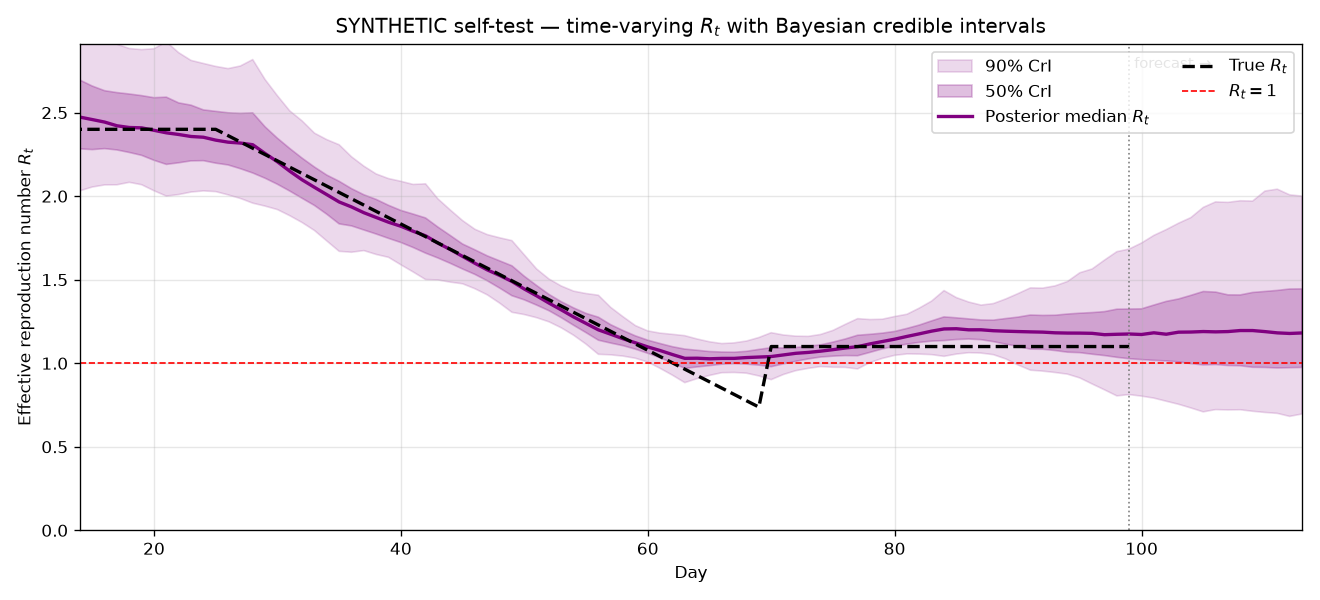
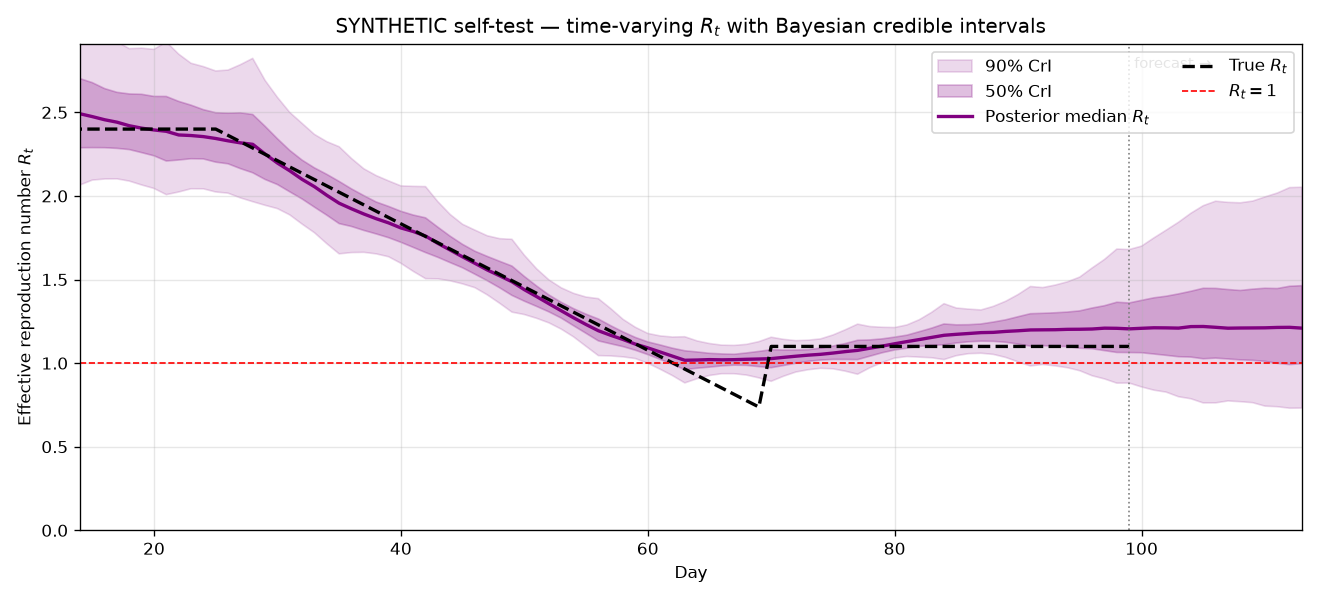
Regenerate synthetic figures (truncation-off) and clarify cases-only fallback in docs
Synthetic self-test under the final config recovers IFR 0.72% (true 0.68%),
ascertainment ~31%, final-day R_t 1.21 (true 1.1), 9 divergences. Document that
time-varying ascertainment and inferred GI are deaths-anchored features and that
cases-only fits fall back to the constant-ascertainment/fixed-GI config.

Claude-Session: https://claude.ai/code/session_01JxzHxVWCEDtmXWoGdBLa2z

diff --git a/SOTA_MODEL.md b/SOTA_MODEL.md
@@ -94,9 +94,11 @@ deaths_t  ~ NegativeBinomial( mean = E[deaths_t], dispersion = φ_D )
   R_t). On *real* data joint fitting is sensitive to delay/IFR misspecification
   and can be unstable, so real-data runs fit **cases-only by default** and joint
   fitting is opt-in (`--with-deaths`); see the limitations section;
-- `ρ_t` — **time-varying ascertainment**, a weekly logit random walk (not a
-  constant), because the reported fraction of infections rose sharply as testing
-  scaled up through 2020;
+- `ρ_t` — **time-varying ascertainment**, a weekly logit random walk, because
+  the reported fraction of infections rose sharply as testing scaled up through
+  2020. This (and the inferred generation interval) is only identifiable with the
+  deaths anchor, so for cases-only fits the model falls back to a **constant**
+  ascertainment and fixed generation interval — the robust, identifiable config;
 - `completeness_t` — **right-truncation correction** for *real-time* data: the
   most recent days are only partially reported, so expected counts are scaled by
   the delay-CDF completeness. **Off by default** (`cfg.apply_truncation`) because